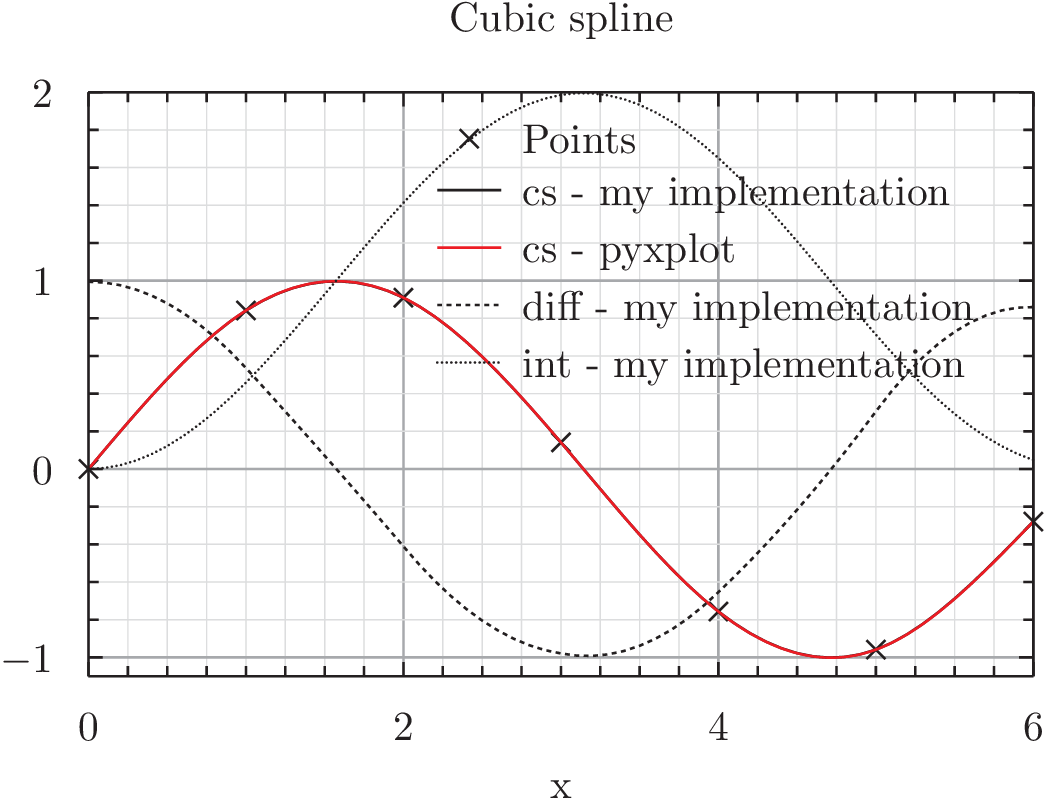
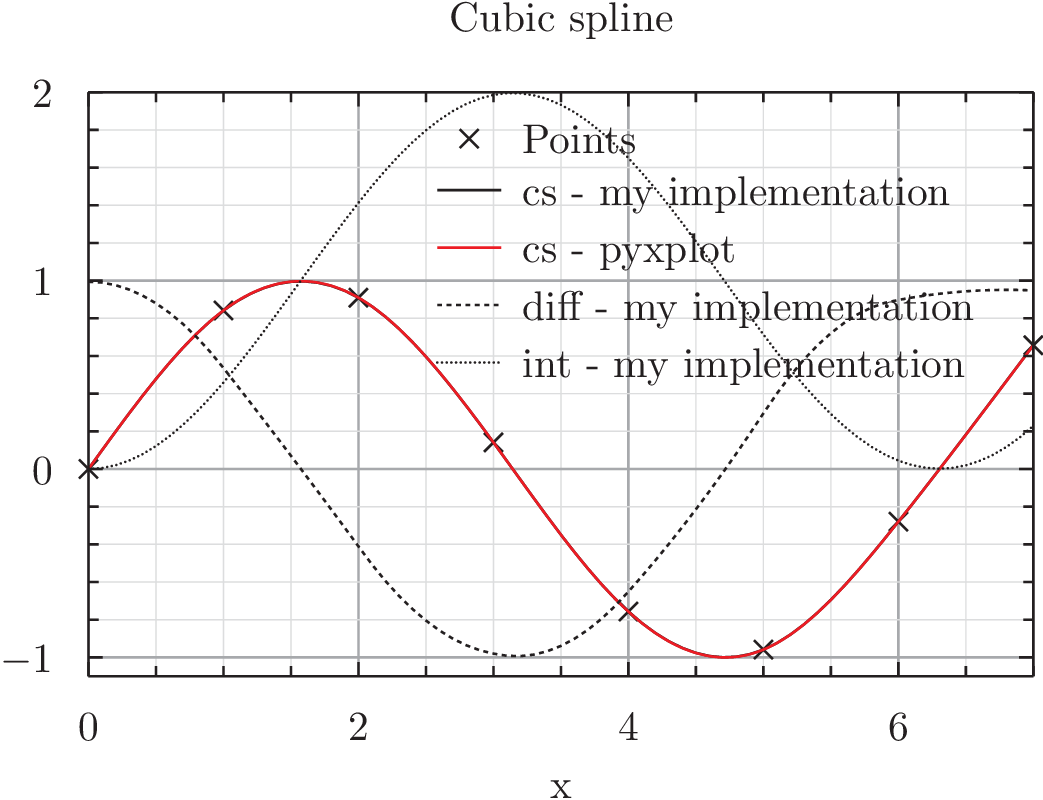
change lw

diff --git a/homework/splines/C/main.cs b/homework/splines/C/main.cs
@@ -4,8 +4,8 @@ using static System.Math;
 
 class main{
 	static void Main(){
-		var x = new double[7]; 
-		var y = new double[7];
+		var x = new double[8]; 
+		var y = new double[8];
 
 		for(int i = 0; i < x.Length; i++){
 			x[i] = i;
